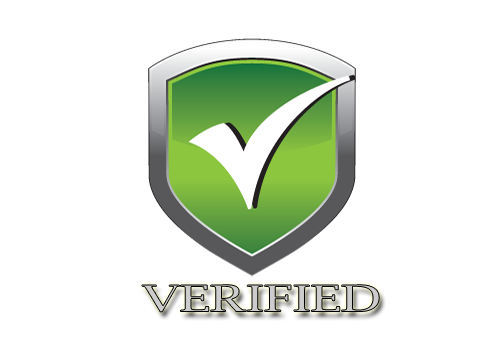
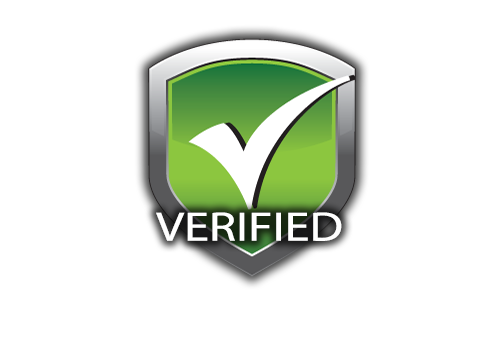
Merge branch 'apnasite-V1' of github.com:wtouch/SmallBusiness into apnasite-V1
Conflicts:
	website/templates/educational_books/realtwelve/img/verify.png
style.css of realtweleve is modified.
add new images lady.png and verify.png

Changed region(s): [[0.2679, 0.0611, 0.7738, 0.8861]]

diff --git a/website/templates/educational_books/realtwelve/css/style.css b/website/templates/educational_books/realtwelve/css/style.css
@@ -33,11 +33,20 @@
   padding: 4px;
   border: 4px solid transparent;
 }
-.featuredProperty .bxslider1 li .sliderImg img {
+.featuredProperty .bxslider1 li .sliderImg .slimg {
   min-height: 150px;
 }
 .featuredProperty .bxslider1 li .sliderImg:hover {
   border: 4px solid #18012b;
+}
+.featuredProperty .bxslider1 li .verify {
+  width: 50%;
+  border: none;
+  margin-left: 10px;
+  position: absolute;
+  right: -4px;
+  bottom: -12px;
+  z-index: 999;
 }
 .featuredProperty .bxslider1 li .sliderDesc .table {
   margin-bottom: 10px;
@@ -222,6 +231,7 @@
   margin-top: 10px;
 }
 .homeproject {
+  position: relative;
   margin-top: 10px;
   margin-bottom: 10px;
 }
@@ -270,6 +280,9 @@
   overflow: hidden;
   height: 303px;
 }
+.homeproject .projsnap {
+  text-align: center;
+}
 .homeproject .projsnap img {
   max-height: 110px;
   margin-top: 10px;
@@ -279,7 +292,23 @@
   padding: 4px;
 }
 .homeproject .projsnap p {
-  margin: 0 10px 10px;
+  margin: 0px 10px;
+  padding: 13px;
+  border-bottom: 1px solid #18012b;
+}
+.homeproject .projsnap p:last-child {
+  border: none;
+}
+.homeproject::after {
+  position: absolute;
+  content: "";
+  background-image: url('../img/lady.png');
+  background-size: 100% 100%;
+  right: 200px;
+  top: 15px;
+  z-index: 999;
+  height: 290px;
+  width: 120px;
 }
 .projlist .project .thumbnail {
   height: 385px;
@@ -831,12 +860,12 @@ h1,
 h2 {
   text-align: center;
 }
-a {
-  color: #421266;
-}
 .btn-link {
-  color: #ffffff;
   padding-left: 0px;
+}
+a,
+.btn-link {
+  color: #421266;
 }
 a:hover,
 .btn-link:hover {

diff --git a/website/templates/educational_books/realtwelve/less/project.less b/website/templates/educational_books/realtwelve/less/project.less
@@ -28,6 +28,7 @@
 }
 
 .homeproject {
+	position : relative;
 	margin-top:10px;
 	margin-bottom:10px;
 	.projectnav, .projsnap{
@@ -76,6 +77,7 @@
 		}
 	}
 	.projsnap{
+		text-align : center;
 		img{
 			max-height : 110px;
 			margin-top: 10px;
@@ -85,11 +87,26 @@
 			padding :4px;
 		}
 		p{
-			margin : 0 10px 10px;
+			margin: 0px 10px;
+			padding: 13px;
+			border-bottom : 1px solid @darkcolor;
+			&:last-child{
+				border : none;
+			}
 		}
 	}
 }
-
+.homeproject::after{
+	position : absolute;
+	content : "";
+	background-image : url('../img/lady.png');
+	background-size: 100% 100%;
+	right :200px;
+	top : 15px;
+	z-index: 999;
+	height : 290px;
+	width : 120px;
+}
 //css for project list
 	.projlist{
 		.project{

diff --git a/website/templates/educational_books/realtwelve/less/property.less b/website/templates/educational_books/realtwelve/less/property.less
@@ -26,12 +26,21 @@
 				overflow : hidden;
 				padding : 4px;
 				border : 4px solid transparent;
-				img{
+				.slimg{
 					min-height: 150px;
 				}
 				&:hover{
 					border : 4px solid @darkcolor;
 				}
+			}
+			.verify{
+				width:50%;
+				border:none;
+				margin-left:10px;
+				position:absolute;
+				right:-4px;
+				bottom:-12px;
+				z-index:999;
 			}
 			.sliderDesc{
 				.table{

diff --git a/website/templates/educational_books/realtwelve/less/style.less b/website/templates/educational_books/realtwelve/less/style.less
@@ -197,14 +197,11 @@
 	h1,h2{
 		text-align : center;
 	}
-	a{
-		color : @color;
-	}
 	.btn-link{
-		color : @colorwhite;
 		padding-left : 0px;
 	}
 	a, .btn-link{
+		color : @color;
 		&:hover{
 			text-decoration : underline;
 			color : @color;
